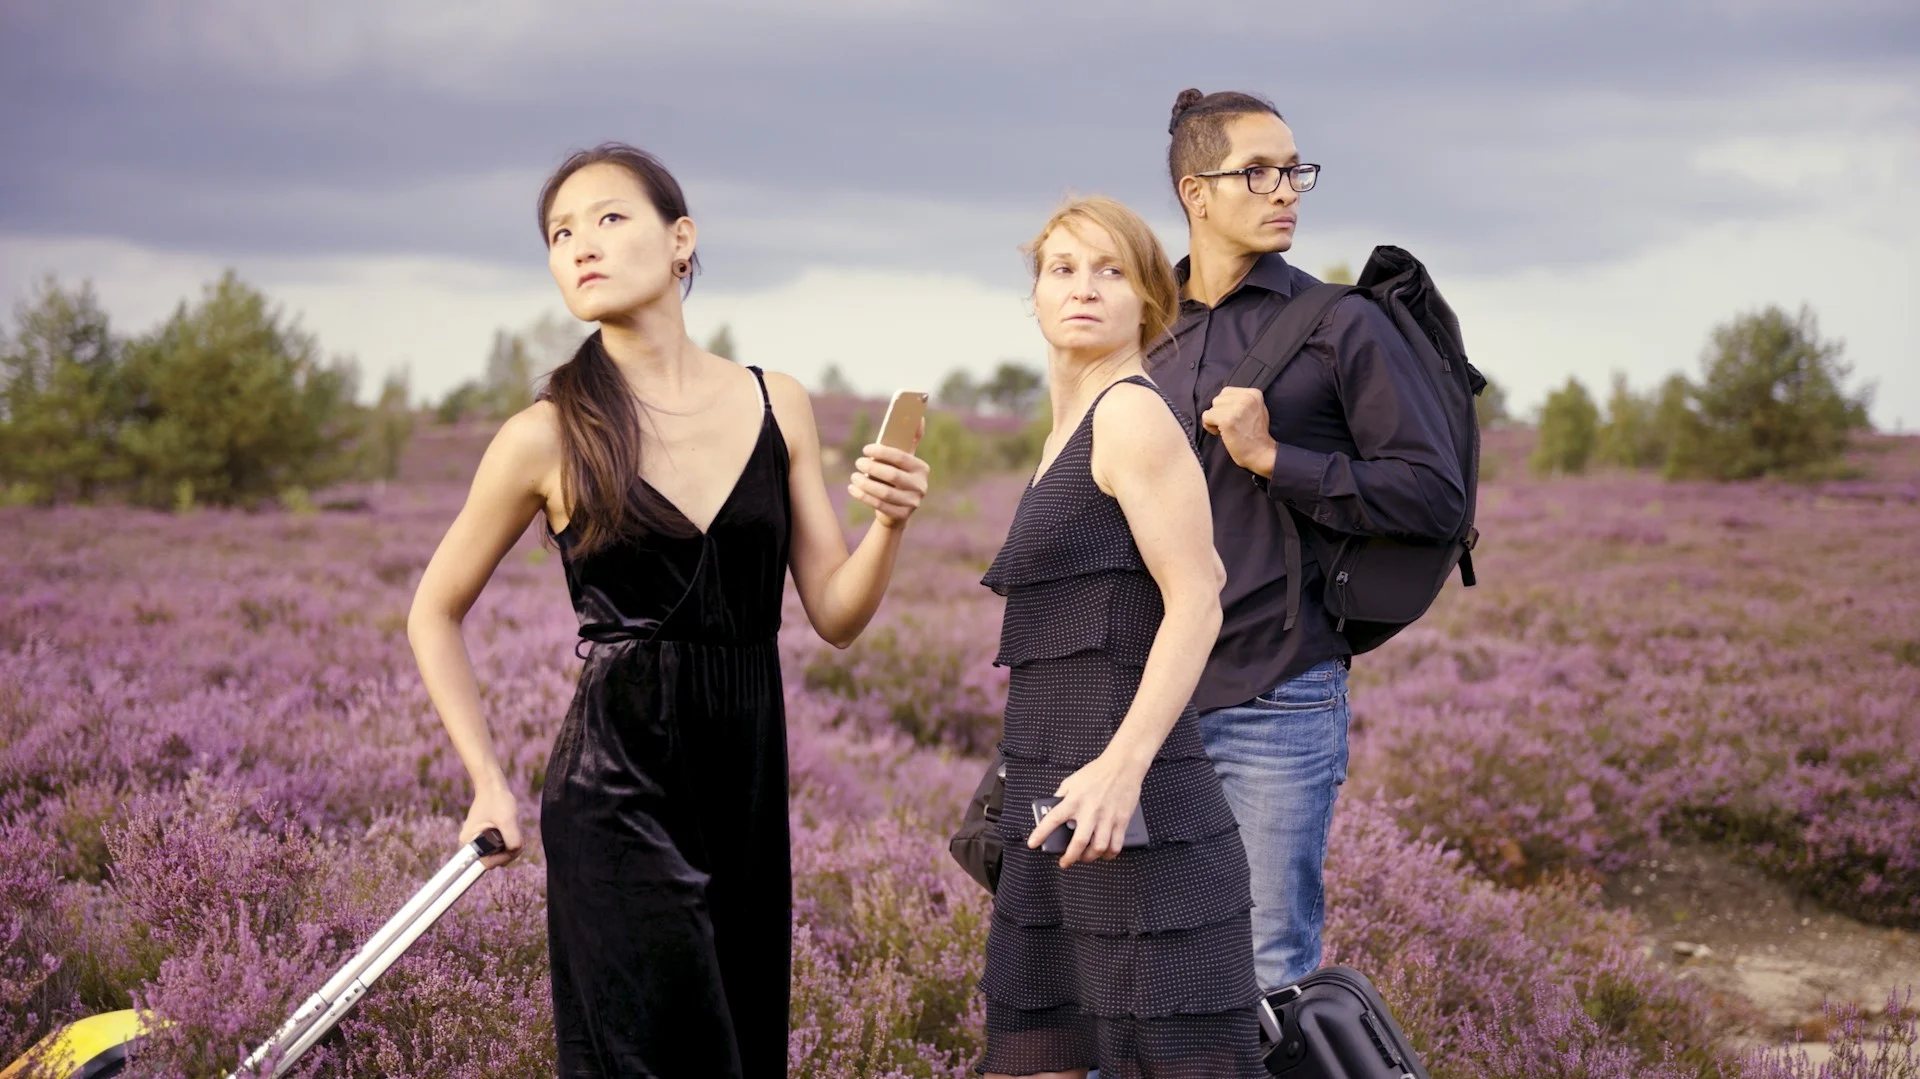
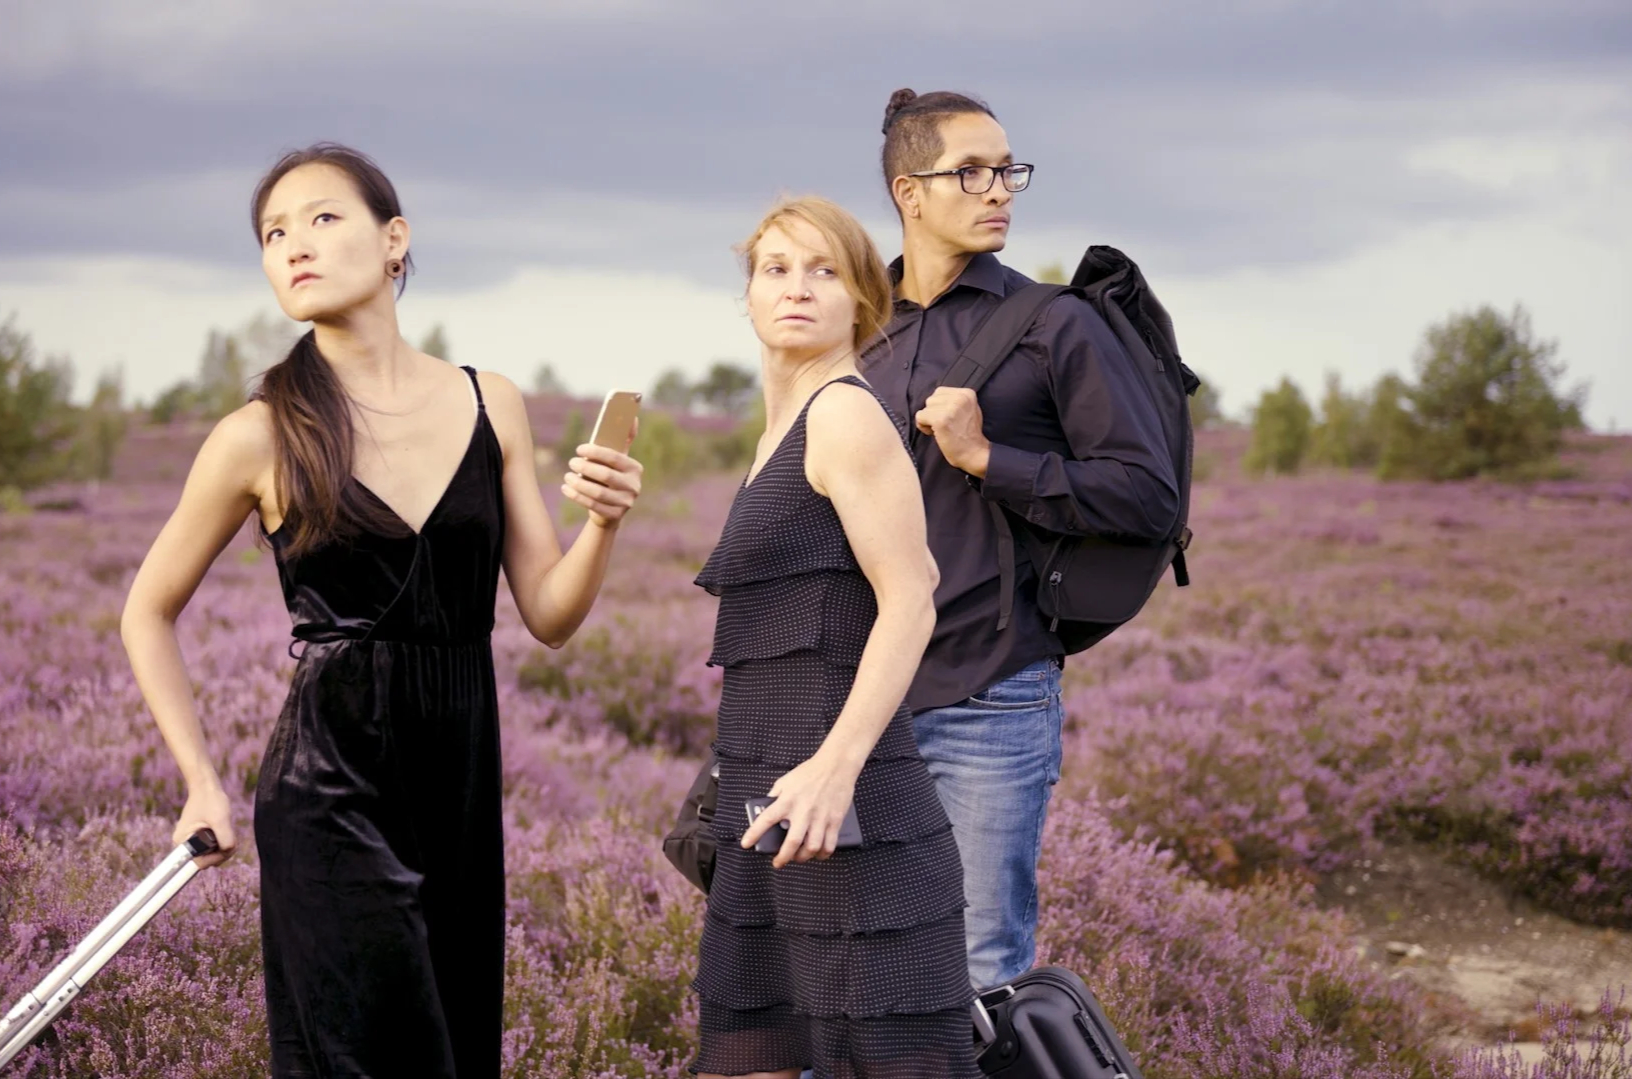
Anchoring for cover photos and other smaller fixes

diff --git a/src/content.config.ts b/src/content.config.ts
@@ -15,6 +15,7 @@ const projectCollection = defineCollection({
 			url: image(),
 			alt: z.string(),
 			caption: z.string(),
+			focus: z.enum(["left", "center", "right"]).default("center"),
 		}),
 		support: z.object({
 			url: image(),